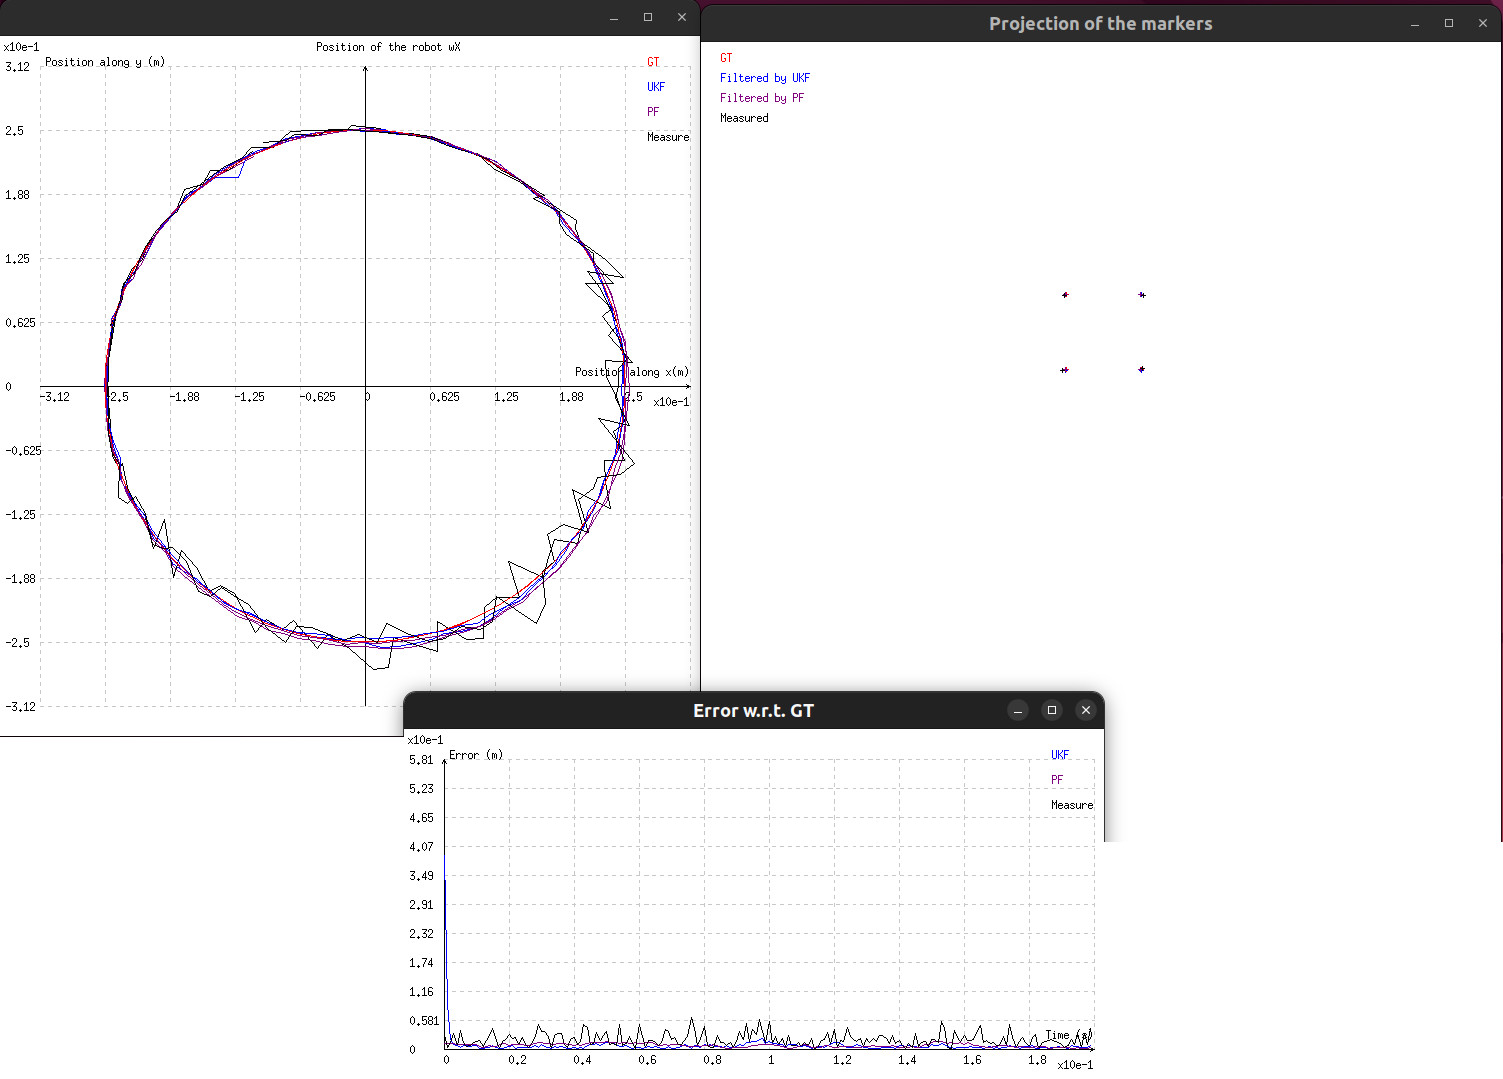
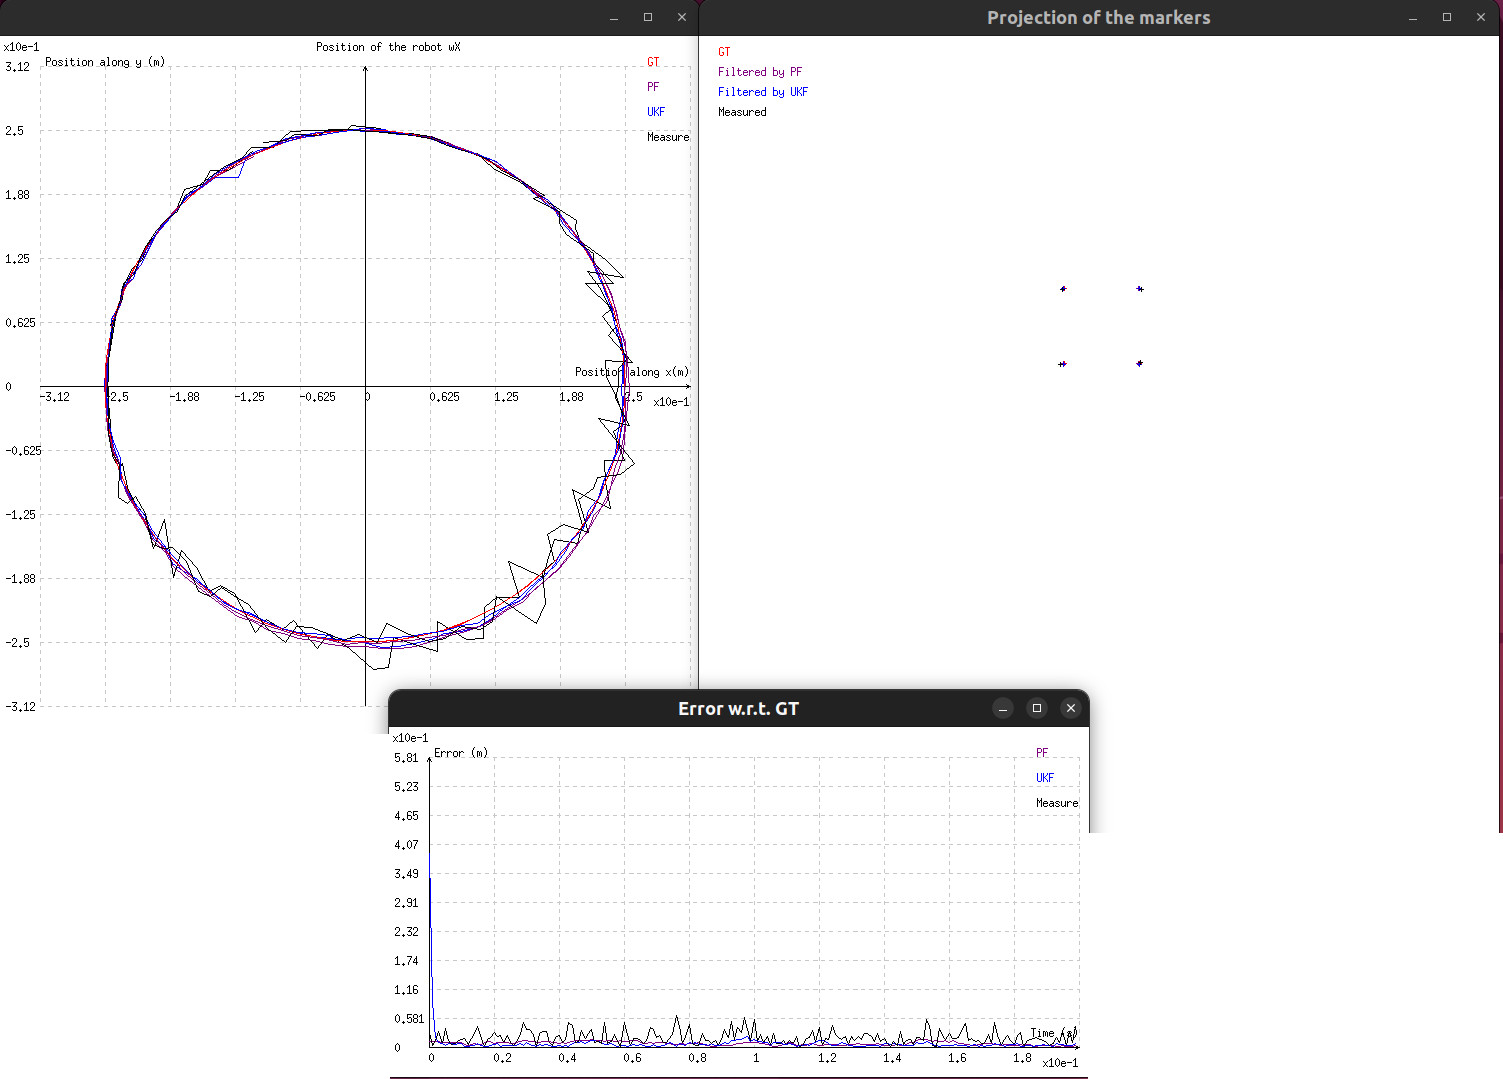
[TUTO][DOC] Finished the first draft of the PF tutorial documentation

diff --git a/tutorial/particle-filter/tutorial-pf.cpp b/tutorial/particle-filter/tutorial-pf.cpp
@@ -349,6 +349,7 @@ private:
 };
 //! [Markers_class]
 
+//! [CLI]
 struct SoftwareArguments
 {
   // --- Main loop parameters---
@@ -532,6 +533,7 @@ private:
     std::cout << std::endl;
   }
 };
+//! [CLI]
 
 int main(const int argc, const char *argv[])
 {
@@ -582,36 +584,7 @@ int main(const int argc, const char *argv[])
   cam.initPersProjWithoutDistortion(px, py, u0, v0);
   //! [Camera_for_measurements]
 
-  // Initialize the attributes of the UKF
-  //! [Sigma_points_drawer]
-  std::shared_ptr<vpUKSigmaDrawerAbstract> drawer = std::make_shared<vpUKSigmaDrawerMerwe>(4, 0.001, 2., -1);
-  //! [Sigma_points_drawer]
-
-  //! [Covariance_measurements]
-  vpMatrix R1landmark(2, 2, 0.); // The covariance of the noise introduced by the measurement with 1 landmark
-  R1landmark[0][0] = sigmaMeasurements*sigmaMeasurements;
-  R1landmark[1][1] = sigmaMeasurements*sigmaMeasurements;
-  vpMatrix R(2*nbMarkers, 2 * nbMarkers);
-  for (unsigned int i = 0; i < nbMarkers; ++i) {
-    R.insert(R1landmark, 2*i, 2*i);
-  }
-  //! [Covariance_measurements]
-
-  //! [Covariance_process]
-  const double processVariance = 0.000025; // Variance of the process of (0.005cm)^2
-  vpMatrix Q; // The covariance of the process
-  Q.eye(4);
-  Q = Q * processVariance;
-  //! [Covariance_process]
-
   //! [Initial_estimates]
-  vpMatrix P0(4, 4); //  The initial guess of the process covariance
-  P0.eye(4);
-  P0[0][0] = 1.;
-  P0[1][1] = 1.;
-  P0[2][2] = 1.;
-  P0[2][2] = 5.;
-
   vpColVector X0(4); // The initial guess for the state
   X0[0] = 0.95 * radius * std::cos(phi); // Wrong estimation of the position along the X-axis = 5% of error
   X0[1] = 0.95 * radius * std::sin(phi); // Wrong estimation of the position along the Y-axis = 5% of error
@@ -636,22 +609,12 @@ int main(const int argc, const char *argv[])
   }
   //! [Constants_for_the_PF]
 
-  //! [Init_functions_ukf]
-  vpUnscentedKalman::vpProcessFunction f = fx;
+  // Object that converts the pose of the object into measurements
   vpMarkersMeasurements markerMeas(cam, cMw, wRo, markers, sigmaMeasurements, seed, sigmaLikelihood);
-  using std::placeholders::_1;
-  vpUnscentedKalman::vpMeasurementFunction h = std::bind(&vpMarkersMeasurements::state_to_measurement, &markerMeas, _1);
-  //! [Init_functions_ukf]
-
-  //! [Init_UKF]
-  // Initialize the UKF
-  vpUnscentedKalman ukf(Q, R, drawer, f, h);
-  ukf.init(X0, P0);
-  //! [Init_UKF]
 
   //! [Init_functions_pf]
   vpParticleFilter<vpColVector>::vpProcessFunction processFunc = fx;
-  // using std::placeholders::_1;
+  using std::placeholders::_1;
   using std::placeholders::_2;
   vpParticleFilter<vpColVector>::vpLikelihoodFunction likelihoodFunc = std::bind(&vpMarkersMeasurements::likelihood, &markerMeas, _1, _2);
   vpParticleFilter<vpColVector>::vpResamplingConditionFunction checkResamplingFunc = vpParticleFilter<vpColVector>::simpleResamplingCheck;
@@ -664,6 +627,43 @@ int main(const int argc, const char *argv[])
   pfFilter.init(X0, processFunc, likelihoodFunc, checkResamplingFunc, resamplingFunc);
   //! [Init_PF]
 
+  //! [Init_UKF]
+  // Initialize the attributes of the UKF
+  // Sigma point drawer
+  std::shared_ptr<vpUKSigmaDrawerAbstract> drawer = std::make_shared<vpUKSigmaDrawerMerwe>(4, 0.001, 2., -1);
+
+  // Measurements covariance
+  vpMatrix R1landmark(2, 2, 0.); // The covariance of the noise introduced by the measurement with 1 landmark
+  R1landmark[0][0] = sigmaMeasurements*sigmaMeasurements;
+  R1landmark[1][1] = sigmaMeasurements*sigmaMeasurements;
+  vpMatrix R(2*nbMarkers, 2 * nbMarkers);
+  for (unsigned int i = 0; i < nbMarkers; ++i) {
+    R.insert(R1landmark, 2*i, 2*i);
+  }
+
+  // Process covariance
+  const double processVariance = 0.000025; // Variance of the process of (0.005cm)^2
+  vpMatrix Q; // The noise introduced during the prediction step
+  Q.eye(4);
+  Q = Q * processVariance;
+
+  // Process covariance initial guess
+  vpMatrix P0(4, 4);
+  P0.eye(4);
+  P0[0][0] = 1.;
+  P0[1][1] = 1.;
+  P0[2][2] = 1.;
+  P0[2][2] = 5.;
+
+  // Functions for the UKF
+  vpUnscentedKalman::vpProcessFunction f = fx;
+  vpUnscentedKalman::vpMeasurementFunction h = std::bind(&vpMarkersMeasurements::state_to_measurement, &markerMeas, _1);
+
+  // Initialize the UKF
+  vpUnscentedKalman ukf(Q, R, drawer, f, h);
+  ukf.init(X0, P0);
+  //! [Init_UKF]
+
   //! [Init_plot]
 #ifdef VISP_HAVE_DISPLAY
   // Initialize the plot
@@ -673,25 +673,25 @@ int main(const int argc, const char *argv[])
   plot.setUnitX(0, "Position along x(m)");
   plot.setUnitY(0, "Position along y (m)");
   plot.setLegend(0, 0, "GT");
-  plot.setLegend(0, 1, "UKF");
-  plot.setLegend(0, 2, "PF");
+  plot.setLegend(0, 1, "PF");
+  plot.setLegend(0, 2, "UKF");
   plot.setLegend(0, 3, "Measure");
   plot.initRange(0, -1.25 * radius, 1.25 * radius, -1.25 * radius, 1.25 * radius);
   plot.setColor(0, 0, vpColor::red);
-  plot.setColor(0, 1, vpColor::blue);
-  plot.setColor(0, 2, vpColor::purple);
+  plot.setColor(0, 1, vpColor::purple);
+  plot.setColor(0, 2, vpColor::blue);
   plot.setColor(0, 3, vpColor::black);
 
   vpPlot plotError(1, 350, 700, 700, 700, "Error w.r.t. GT");
   plotError.initGraph(0, 3);
   plotError.setUnitX(0, "Time (s)");
   plotError.setUnitY(0, "Error (m)");
-  plotError.setLegend(0, 0, "UKF");
-  plotError.setLegend(0, 1, "PF");
+  plotError.setLegend(0, 0, "PF");
+  plotError.setLegend(0, 1, "UKF");
   plotError.setLegend(0, 2, "Measure");
   plotError.initRange(0, 0, nbIter * dt, 0, radius / 2.);
-  plotError.setColor(0, 0, vpColor::blue);
-  plotError.setColor(0, 1, vpColor::purple);
+  plotError.setColor(0, 0, vpColor::purple);
+  plotError.setColor(0, 1, vpColor::blue);
   plotError.setColor(0, 2, vpColor::black);
 #endif
   //! [Init_plot]
@@ -727,16 +727,19 @@ int main(const int argc, const char *argv[])
     vpColVector z = markerMeas.measureWithNoise(object_pos);
     //! [Update_measurement]
 
-    //! [Perform_filtering]
-    // Use the UKF to filter the measurement
-    double tUKF = vpTime::measureTimeMs();
-    ukf.filter(z, dt);
-    double dtUKF = vpTime::measureTimeMs() - tUKF;
+    //! [PF_filtering]
     /// Use the PF to filter the measurement
     double tPF = vpTime::measureTimeMs();
     pfFilter.filter(z, dt);
     double dtPF = vpTime::measureTimeMs() - tPF;
-    //! [Perform_filtering]
+    //! [PF_filtering]
+
+    //! [UKF_filtering]
+    // Use the UKF to filter the measurement for comparison
+    double tUKF = vpTime::measureTimeMs();
+    ukf.filter(z, dt);
+    double dtUKF = vpTime::measureTimeMs() - tUKF;
+    //! [UKF_filtering]
 
     //! [Update_displays]
 #ifdef VISP_HAVE_DISPLAY
@@ -760,13 +763,14 @@ int main(const int argc, const char *argv[])
     // Plot the ground truth
     plot.plot(0, 0, object_pos[0], object_pos[1]);
 
-    // Plot the UKF filtered state
-    vpColVector XestUKF = ukf.getXest();
-    plot.plot(0, 1, XestUKF[0], XestUKF[1]);
-
     // Plot the PF filtered state
     vpColVector XestPF = pfFilter.computeFilteredState();
-    plot.plot(0, 2, XestPF[0], XestPF[1]);
+    plot.plot(0, 1, XestPF[0], XestPF[1]);
+
+
+    // Plot the UKF filtered state
+    vpColVector XestUKF = ukf.getXest();
+    plot.plot(0, 2, XestUKF[0], XestUKF[1]);
 
     // Plot the noisy pose
     plot.plot(0, 3, wXnoisy, wYnoisy);
@@ -783,18 +787,19 @@ int main(const int argc, const char *argv[])
     vpColVector error_PF = cX_PF - cX_GT;
     vpColVector error_UKF = cX_UKF - cX_GT;
 
-    std::cout << "  [Unscented Kalman Filter method] " << std::endl;
-    std::cout << "    Mean square error = " << error_UKF.frobeniusNorm() << " m^2" << std::endl;
-    std::cout << "    Fitting duration = " << dtUKF << " ms" << std::endl;
     std::cout << "  [Particle Filter method] " << std::endl;
-    std::cout << "    Mean square error = " << error_PF.frobeniusNorm() << " m^2" << std::endl;
+    std::cout << "    Norm of the error = " << error_PF.frobeniusNorm() << " m^2" << std::endl;
     std::cout << "    Fitting duration = " << dtPF << " ms" << std::endl;
 
-    // Plot the UKF filtered state error
-    plotError.plot(0, 0, t, error_UKF.frobeniusNorm());
+    std::cout << "  [Unscented Kalman Filter method] " << std::endl;
+    std::cout << "    Norm of the error = " << error_UKF.frobeniusNorm() << " m^2" << std::endl;
+    std::cout << "    Fitting duration = " << dtUKF << " ms" << std::endl;
 
     // Plot the PF filtered state error
-    plotError.plot(0, 1, t, error_PF.frobeniusNorm());
+    plotError.plot(0, 0, t, error_PF.frobeniusNorm());
+
+    // Plot the UKF filtered state error
+    plotError.plot(0, 1, t, error_UKF.frobeniusNorm());
 
     // Plot the noisy error
     plotError.plot(0, 2, t, (cMo_noisy.getTranslationVector() - vpTranslationVector(cX_GT.extract(0, 3))).frobeniusNorm());
@@ -810,11 +815,11 @@ int main(const int argc, const char *argv[])
       vpImagePoint markerProjGT(zGT[2*id + 1], zGT[2*id]);
       vpDisplay::displayCross(Idisp, markerProjGT, 5, vpColor::red);
 
-      vpImagePoint markerProjFiltUKF(zFiltUkf[2*id + 1], zFiltUkf[2*id]);
-      vpDisplay::displayCross(Idisp, markerProjFiltUKF, 5, vpColor::blue);
-
       vpImagePoint markerProjFiltPF(zFiltPF[2*id + 1], zFiltPF[2*id]);
       vpDisplay::displayCross(Idisp, markerProjFiltPF, 5, vpColor::purple);
+
+      vpImagePoint markerProjFiltUKF(zFiltUkf[2*id + 1], zFiltUkf[2*id]);
+      vpDisplay::displayCross(Idisp, markerProjFiltUKF, 5, vpColor::blue);
 
       vpImagePoint markerProjNoisy(z[2*id + 1], z[2*id]);
       vpDisplay::displayCross(Idisp, markerProjNoisy, 5, vpColor::black);
@@ -823,9 +828,9 @@ int main(const int argc, const char *argv[])
     vpImagePoint ipText(20, 20);
     vpDisplay::displayText(Idisp, ipText, std::string("GT"), vpColor::red);
     ipText.set_i(ipText.get_i() + 20);
-    vpDisplay::displayText(Idisp, ipText, std::string("Filtered by UKF"), vpColor::blue);
-    ipText.set_i(ipText.get_i() + 20);
     vpDisplay::displayText(Idisp, ipText, std::string("Filtered by PF"), vpColor::purple);
+    ipText.set_i(ipText.get_i() + 20);
+    vpDisplay::displayText(Idisp, ipText, std::string("Filtered by UKF"), vpColor::blue);
     ipText.set_i(ipText.get_i() + 20);
     vpDisplay::displayText(Idisp, ipText, std::string("Measured"), vpColor::black);
     vpDisplay::flush(Idisp);
